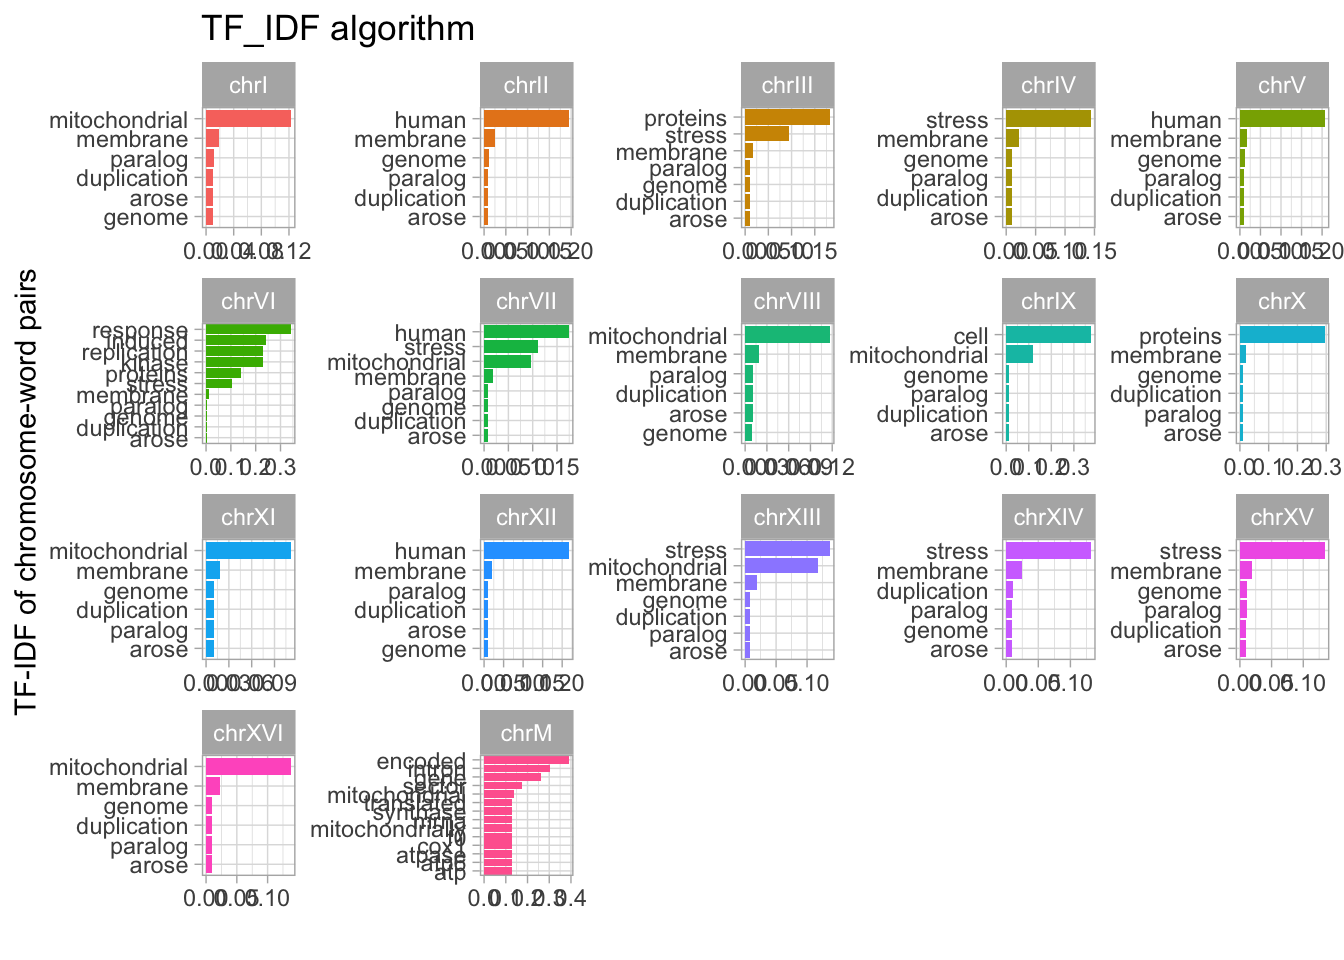
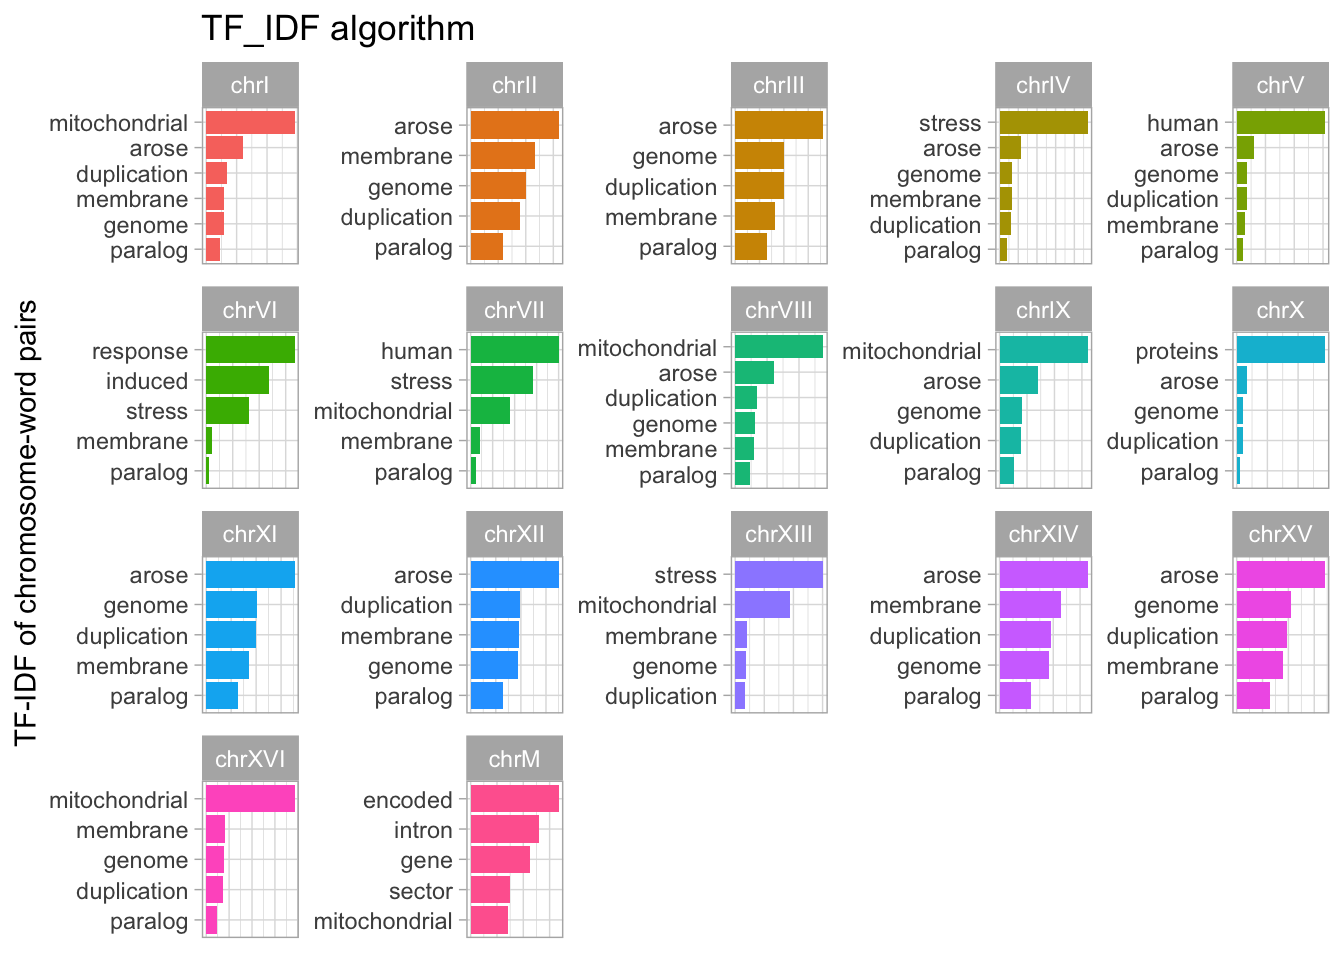
yeast update

Changed region(s): [[0.0, 0.0625, 1.0, 1.0], [0.0, 0.2812, 0.0312, 0.5], [0.1562, 0.0625, 0.1875, 0.0938]]

diff --git a/content/post/2021-10-11-yeast-genome/index.html b/content/post/2021-10-11-yeast-genome/index.html
@@ -52,7 +52,7 @@ pkgs %&gt;%
 <pre><code>## # A tibble: 1 × 1
 ##       n
 ##   &lt;int&gt;
-## 1  5635</code></pre>
+## 1  5637</code></pre>
 <pre class="r"><code>package_category &lt;- pkgs %&gt;% firstInBioc() %&gt;% 
   group_by(repo) %&gt;%
   dplyr::count() %&gt;% 
@@ -103,18 +103,22 @@ pkgs %&gt;%
   theme(plot.title = element_text(hjust = 0))</code></pre>
 <p><img src="{{< blogdown/postref >}}index_files/figure-html/unnamed-chunk-3-1.png" width="672" /></p>
 <p>Let’s finish our exploration of the Bioconductor repository by looking at how the package count has grown over time in each category.</p>
-<pre class="r"><code>pkgs %&gt;%  firstInBioc() %&gt;% 
+<pre class="r"><code>labels &lt;- pkgs %&gt;% group_by(repo) %&gt;% summarize()
+library(ggrepel)
+pkgs %&gt;%  firstInBioc() %&gt;% 
   group_by(Date, repo) %&gt;% 
   count() %&gt;% 
   ungroup() %&gt;% 
   group_by(repo) %&gt;% 
-  mutate(tot_packages = cumsum(n)) %&gt;% 
-  ggplot(aes(Date, tot_packages, color = repo)) +
+  mutate(tot_packages = cumsum(n),
+         label = if_else(tot_packages == max(tot_packages), repo, NA_character_),
+         label = glue(&quot;{repo} ({max(tot_packages)})&quot;)) %&gt;% 
+  ggplot(aes(Date, tot_packages, color = label,)) +
   geom_line(size = 1) +
   labs(title = &quot;Bioconductor package count over time&quot;,
        x = &quot;Year&quot;,
        y = &quot;Count&quot;,
-       color = &quot;Category&quot;)</code></pre>
+       color = &quot;Category&quot;) </code></pre>
 <p><img src="{{< blogdown/postref >}}index_files/figure-html/unnamed-chunk-4-1.png" width="672" /></p>
 </div>
 <div id="diving-into-the-yeast-genome" class="section level2">
@@ -413,7 +417,7 @@ yeast_genes_df %&gt;%
   anti_join(stop_words, by = &#39;word&#39;) %&gt;% 
   count(seqnames, word, sort=T) %&gt;% 
   group_by(seqnames) %&gt;% 
-  slice_max(n, n=6) %&gt;%
+  slice_max(n, n=5) %&gt;%
   ungroup() %&gt;% 
   mutate(word = reorder_within(word, n, seqnames)) %&gt;% 
   ggplot(aes(n, word, fill = seqnames)) +
@@ -424,7 +428,10 @@ yeast_genes_df %&gt;%
     x = &quot;Word frequency&quot;, y = NULL,
     title = &quot;Top words from gene description annotation by chromosome&quot;
   ) + 
-  theme(legend.position = &quot;none&quot;)</code></pre>
+  theme(legend.position = &quot;none&quot;) +
+  theme(axis.title.x=element_blank(),
+        axis.text.x=element_blank(),
+        axis.ticks.x=element_blank())</code></pre>
 <p><img src="{{< blogdown/postref >}}index_files/figure-html/unnamed-chunk-19-1.png" width="672" /></p>
 <p>A more interesting selection of words can be found by selecting the unique words associated with each chromosome. We can do this by using the TF-IDF algorithm.</p>
 <pre class="r"><code>common_words &lt;- c(&quot;protein&quot;,&quot;involved&quot;, &quot;required&quot;, &quot;complex&quot;, &quot;subunit&quot;, &quot;involved&quot;, &quot;dna&quot;)
@@ -435,12 +442,12 @@ tfidf &lt;- yeast_genes_df %&gt;%
   anti_join(stop_words, by = &#39;word&#39;) %&gt;% 
   dplyr::count(seqnames, word, sort=T) %&gt;% 
   group_by(seqnames) %&gt;% 
-  slice_max(n, n=6)
+  slice_max(n, n=5)
 
 tfidf %&gt;% 
   bind_tf_idf(word, seqnames, n) %&gt;% 
   group_by(seqnames) %&gt;% 
-  slice_max(tf_idf, n=12) %&gt;%
+  #slice_max(tf_idf, n=12) %&gt;%
   ungroup() %&gt;% 
   mutate(word = reorder_within(word, tf_idf, seqnames)) %&gt;% 
   ggplot(aes(tf_idf, word, fill = seqnames)) +
@@ -453,11 +460,14 @@ tfidf %&gt;%
   ) + 
   theme(legend.position = &quot;none&quot;) +
   labs(x = &quot;&quot;,
-       y = &quot;TF-IDF of chromosome-word pairs&quot;)</code></pre>
+       y = &quot;TF-IDF of chromosome-word pairs&quot;) +
+  theme(axis.title.x=element_blank(),
+        axis.text.x=element_blank(),
+        axis.ticks.x=element_blank())</code></pre>
 <p><img src="{{< blogdown/postref >}}index_files/figure-html/unnamed-chunk-20-1.png" width="672" /></p>
 </div>
 <div id="summary" class="section level2">
 <h2>Summary</h2>
-<p>We looked at several core Bioconductor packages for accessing, annotating and manipulating genomic data. In addition to using packages such <code>Biostrings</code>, <code>GenomicRanges</code>, <code>GenomicFeatures</code>, <code>Plyranges</code> and <code>ggbio</code>, we also saw how we can incorporate the <code>Tidyverse</code> into our analysis. In a follow up post, I plan to dive deeper into the yeast genome using data from the <code>yeastExpData</code> and <code>yeastNagalakshmi</code> packages.</p>
+<p>This post introduced several core Bioconductor packages for accessing, annotating and manipulating genomic data. We used packages such as <code>Biostrings</code>, <code>GenomicRanges</code>, <code>GenomicFeatures</code>, <code>Plyranges</code> and <code>ggbio</code>. Finally, we utilized the tidy data framework and used packages such as <code>Dplyr</code>, <code>GGplot2</code> and the <code>Tidytext</code> package for natural language processing. In a follow up post, I plan to dive deeper into the yeast genome using data from the <code>yeastExpData</code> and <code>yeastNagalakshmi</code> packages.</p>
 </div>
 </div>
